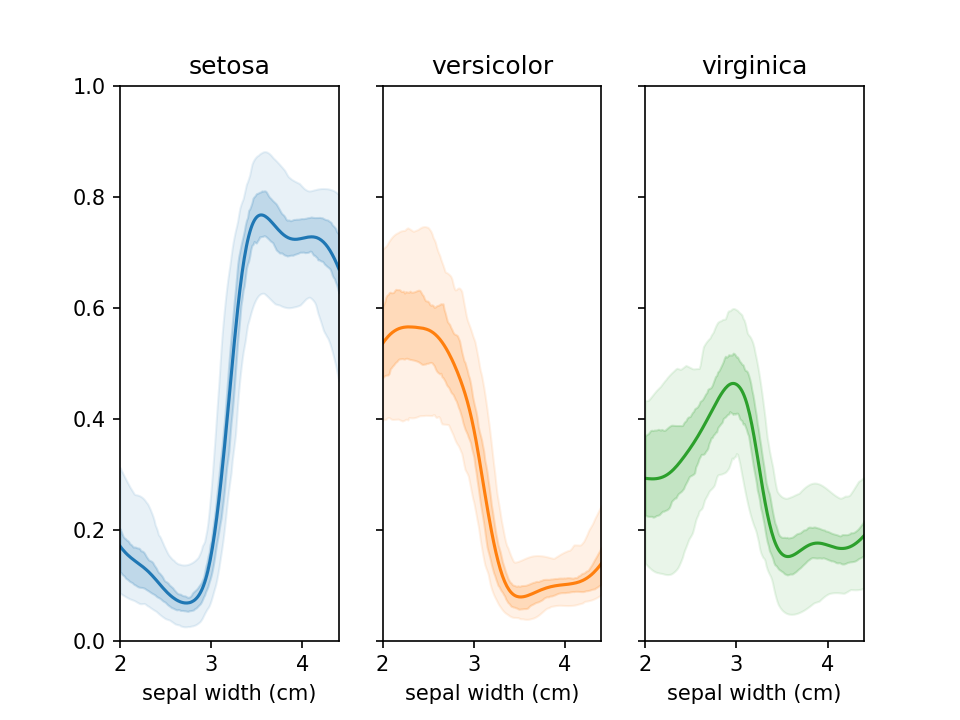
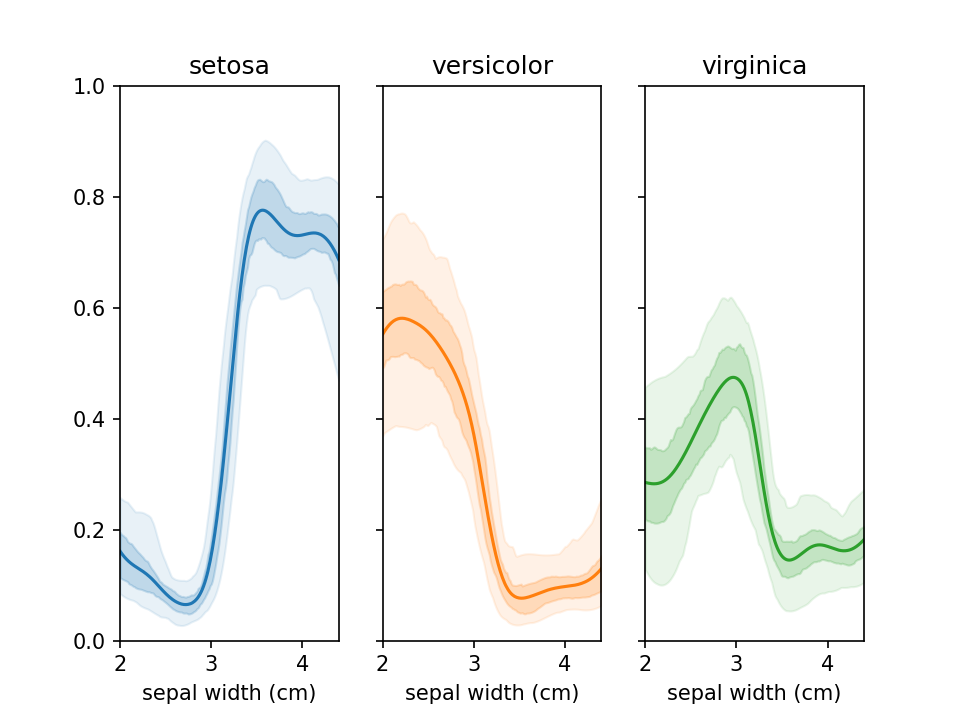
updated stats included warnings and updated black workflow

diff --git a/src/lorepy/uncertainty.py b/src/lorepy/uncertainty.py
@@ -1,5 +1,6 @@
 import numpy as np
 import pandas as pd
+import warnings
 from matplotlib import pyplot as plt
 from pandas import DataFrame
 from sklearn.linear_model import LogisticRegression
@@ -101,14 +102,36 @@ def _get_feature_importance(
     """
 
     importance_scores = []
+    
+    # Issue warnings about statistical considerations for different modes
+    if mode == "resample":
+        warnings.warn(
+            "Bootstrap resampling mode uses the same data for training and validation, "
+            "which may lead to overoptimistic importance scores with some models. "
+            "Consider using mode='jackknife' for more conservative estimates with proper train/test splits.",
+            UserWarning,
+            stacklevel=3
+        )
 
     for i in range(iterations):
         if mode == "jackknife":
-            X_keep, _, y_keep, _ = train_test_split(
+            X_keep, X_val, y_keep, y_val = train_test_split(
                 X_reg, y_reg, train_size=jackknife_fraction
             )
+            
+            # Check for small validation sets that may affect statistical reliability
+            if len(y_val) < 20:
+                warnings.warn(
+                    f"Jackknife validation set is small (n={len(y_val)}). "
+                    f"Small validation sets may lead to unreliable importance estimates. "
+                    f"Consider increasing jackknife_fraction (currently {jackknife_fraction}) "
+                    f"or using a larger dataset for more stable results.",
+                    UserWarning,
+                    stacklevel=3
+                )
         elif mode == "resample":
             X_keep, y_keep = resample(X_reg, y_reg, replace=True)
+            X_val, y_val = X_reg, y_reg  # Use full data for validation
         else:
             raise NotImplementedError(
                 f"Mode {mode} is unsupported, only jackknife and resample are valid modes"
@@ -121,9 +144,9 @@ def _get_feature_importance(
         # Use permutation_importance to get feature importance for first feature (x)
         # This handles proper train/test splits internally and avoids training data leakage
         perm_result = permutation_importance(
-            lg,
-            X_keep,
-            y_keep,
+            lg, 
+            X_val, 
+            y_val, 
             n_repeats=1,  # We handle iterations in outer loop
             random_state=None,  # Allow randomness for each iteration
             scoring="accuracy",

diff --git a/tests/test_uncertainty.py b/tests/test_uncertainty.py
@@ -1,6 +1,7 @@
 import numpy as np
 import pandas as pd
 import pytest
+import warnings
 from lorepy import uncertainty_plot, feature_importance
 from lorepy.uncertainty import _get_feature_importance
 from lorepy.lorepy import _prepare_data
@@ -188,3 +189,46 @@ def test_public_feature_importance_advanced(sample_data):
     assert result["feature"] == "x"
     assert result["mode"] == "jackknife"
     assert isinstance(result["mean_importance"], float)
+
+
+# Test warning for bootstrap mode (train/validation overlap)
+def test_feature_importance_bootstrap_warning(sample_data):
+    with pytest.warns(UserWarning, match="Bootstrap resampling mode uses the same data"):
+        result = feature_importance(sample_data, x="x", y="y", mode="resample", iterations=5)
+        assert result["mode"] == "resample"
+
+
+# Test warning for small validation sets in jackknife mode
+def test_feature_importance_small_validation_warning():
+    # Create a small dataset to trigger the warning
+    small_data = pd.DataFrame({
+        'x': np.random.randn(15),
+        'y': np.random.choice([0, 1], 15),
+        'z': np.random.randn(15)
+    })
+    
+    with pytest.warns(UserWarning, match="Jackknife validation set is small"):
+        # With jackknife_fraction=0.8, validation set will be 15 * 0.2 = 3 < 20
+        result = feature_importance(small_data, x="x", y="y", mode="jackknife", 
+                                  jackknife_fraction=0.8, iterations=5)
+        assert result["mode"] == "jackknife"
+
+
+# Test no warning for adequate validation sets
+def test_feature_importance_no_warning_adequate_validation():
+    # Create a larger dataset that shouldn't trigger warnings
+    large_data = pd.DataFrame({
+        'x': np.random.randn(150),
+        'y': np.random.choice([0, 1], 150),
+        'z': np.random.randn(150)
+    })
+    
+    # This should not trigger any warnings (150 * 0.2 = 30 validation samples >= 20)
+    with warnings.catch_warnings():
+        warnings.simplefilter("error")  # Turn warnings into errors
+        try:
+            result = feature_importance(large_data, x="x", y="y", mode="jackknife", 
+                                      jackknife_fraction=0.8, iterations=5)
+            assert result["mode"] == "jackknife"
+        except UserWarning:
+            pytest.fail("Unexpected warning for adequate validation set size")

diff --git a/src/lorepy/lorepy.py b/src/lorepy/lorepy.py
@@ -18,6 +18,8 @@ def _prepare_data(data, x, y, confounders):
     :param confounders: A list of tuples, where each tuple contains the name of a confounder feature and its reference value.
     :return: A tuple containing X_reg (feature array), y_reg (target array), and x_range (min/max of primary feature).
     """
+
+    # Here the x-feature should be the first (!) for compatibility with uncertainty._get_feature_importance!
     x_features = [x] + [i[0] for i in confounders]
 
     tmp_df = data[x_features + [y]].dropna()

diff --git a/example_uncertainty.py b/example_uncertainty.py
@@ -22,6 +22,12 @@ stats = feature_importance(
 )
 print(stats)
 
+stats = feature_importance(
+    data=iris_df, x="sepal width (cm)", y="species", iterations=100, mode="jackknife"
+)
+print(stats)
+
+
 # Using jackknife instead of resample to assess uncertainty
 uncertainty_plot(
     data=iris_df,

diff --git a/README.md b/README.md
@@ -206,15 +206,15 @@ Lorepy provides statistical assessment of how strongly your x-feature is associa
 
 #### How it Works
 
-The function uses a robust resampling approach:
+The function uses a robust resampling approach combined with sklearn's optimized permutation importance:
 
 1. **Bootstrap/Jackknife Sampling**: Creates multiple subsamples of your data (default: 100 iterations)
-2. **Baseline Performance**: For each subsample, fits a classifier and measures accuracy
-3. **Shuffled Performance**: Randomly shuffles the x-feature values and remeasures accuracy
-4. **Feature Importance**: Calculates the performance drop (baseline - shuffled accuracy)
+2. **Permutation Importance**: For each subsample, uses sklearn's `permutation_importance` with proper cross-validation to avoid data leakage
+3. **Feature Shuffling**: Randomly permutes the x-feature values while keeping confounders intact
+4. **Performance Assessment**: Measures accuracy drop using statistically sound train/test splits
 5. **Statistical Summary**: Aggregates results across all iterations to provide confidence intervals and significance testing
 
-This approach works with **any sklearn classifier** (LogisticRegression, SVM, RandomForest, etc.) and properly handles confounders by keeping them constant during shuffling.
+This approach works with **any sklearn classifier** (LogisticRegression, SVM, RandomForest, etc.) and properly handles confounders by keeping them constant during shuffling. The implementation uses sklearn's battle-tested permutation importance algorithm for reliable, unbiased results.
 
 ```python
 from lorepy import feature_importance
